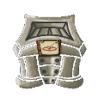
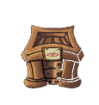
Ugrade Menu/ 6h 32 min 57 s

diff --git a/main.py b/main.py
@@ -13,21 +13,23 @@ import random
 pygame.font.init()
 
 lives_img = pygame.image.load(os.path.join("game_assets","heart.png"))
-star_imgs = pygame.image.load(os.path.join("game_assets","star.png"))
+coin_img = pygame.transform.scale(pygame.image.load(os.path.join("game_assets/Menu", "coin.png")),(40,40))
+UI_background = pygame.transform.scale(pygame.image.load(os.path.join("game_assets/Menu","menu.png")), (200,100))
+
 class Game:
     def __init__(self):
         self.width = 1200
         self.height = 700
         self.win = pygame.display.set_mode((self.width, self.height))
         self.enemys = []
-        self.attack_towers = [TrebuchetteTower(300, 150), ArcherTower(725, 400), WizardTower( 100,250)]
+        self.attack_towers = [TrebuchetteTower(300, 150), ArcherTower(725, 400), WizardTower( 100,250), ArcherTower(725, 50)]
         self.support_towers = [RangeTower(800, 400), DamageTower(800,500)]
         self.lives = 10
-        self.money = 100
+        self.money = 2000
         self.bg = pygame.image.load(os.path.join("game_assets", "bg2.0.png"))
         self.bg = pygame.transform.scale(self.bg, (self.width, self.height))
         self.timer =time.time()
-        self.life_font = pygame.font.SysFont("comicsans",50)
+        self.life_font = pygame.font.SysFont("comicsans",30)
         self.selected_tower = None
 
     def run(self):
@@ -48,18 +50,29 @@ class Game:
 
                 pos = pygame.mouse.get_pos()
                 if event.type == pygame.MOUSEBUTTONDOWN:
-                    for tw in self.attack_towers:
-                        if tw.click(pos[0], pos[1]):
-                            tw.selected = True
-                            self.selected_tower = tw
-                        else:
-                            tw.selected = False
-                    for tw in self.support_towers:
-                        if tw.click(pos[0], pos[1]):
-                            tw.selected = True
-                            self.selected_tower = tw
-                        else:
-                            tw.selected = False
+                    btn_clicked=None
+                    if self.selected_tower:
+                        btn_clicked = self.selected_tower.menu.get_clicked(pos[0], pos[1])
+                        if btn_clicked:
+                            if btn_clicked == "Upgrade":
+                                cost = self.selected_tower.get_upgrade_cost()
+                                if self.money >= cost:
+                                    self.money -= cost
+                                    self.selected_tower.upgrade()
+
+                    if not (btn_clicked):
+                        for tw in self.attack_towers:
+                            if tw.click(pos[0], pos[1]):
+                                tw.selected = True
+                                self.selected_tower = tw
+                            else:
+                                tw.selected = False
+                        for tw in self.support_towers:
+                            if tw.click(pos[0], pos[1]):
+                                tw.selected = True
+                                self.selected_tower = tw
+                            else:
+                                tw.selected = False
             to_del = []
             for en in self.enemys:
                 if en.pos[0] == 110 and en.pos[1] == 90:
@@ -68,7 +81,7 @@ class Game:
                 self.lives -= 1
                 self.enemys.remove(d)
             for tw in self.attack_towers:
-                tw.attack(self.enemys)
+                self.money += tw.attack(self.enemys)
 
             for tw in self.support_towers:
                 tw.support(self.attack_towers)
@@ -93,12 +106,22 @@ class Game:
         for tw in self.support_towers:
             tw.draw(self.win)
 
+        # draw UI background
+        UIbg = UI_background
+        self.win.blit(UIbg, (self.width - 200, 0))
 
         #draw lifes
         text = self.life_font.render(str(self.lives), 1, (255,255,255))
         life = lives_img
-        self.win.blit(text, (self.width-75, 0))
-        self.win.blit(life, (self.width-600, -385))
+        self.win.blit(text, (self.width-100, 10))
+        self.win.blit(life, (self.width-650, -395))
+
+        # draw money
+        text = self.life_font.render(str(self.money), 1, (255, 255, 255))
+        money = coin_img
+        self.win.blit(text, (self.width - 120, 48))
+        self.win.blit(money, (self.width - 175, 48))
+
 
 
         pygame.display.update()

diff --git a/Menu/menu.py b/Menu/menu.py
@@ -1,7 +1,7 @@
 import pygame
 import os
-
-
+pygame.font.init
+coin = pygame.transform.scale(pygame.image.load(os.path.join("game_assets/Menu", "coin.png")),(40,40))
 class Button:
     def __init__(self, x, y, img, name):
         self.name = name
@@ -27,15 +27,17 @@ class Menu:
     """
     menu para selecionar items
     """
-    def __init__(self, x, y, img):
+    def __init__(self, tower, x, y, img, item_cost):
         self.x = x
         self.y = y
         self.width = img.get_width()
         self.height = img.get_height()
-        self.item_name = []
+        self.item_cost = item_cost
         self.buttons = []
         self.items = 0
         self.bg = img
+        self.font = pygame.font.SysFont("comicsans",20)
+        self.tower = tower
 
     def add_btn(self, img, name):
         """
@@ -45,10 +47,19 @@ class Menu:
         :return: None
         """
         self.items += 1
-        inc_x = self.width/self.items
-        btn_x=self.items * inc_x - img.get_width()/2
-        btn_y= self.y + self.height/2 - img.get_height()/2
+        btn_x = self.x - self.bg.get_width() / 2 + 30
+        if self.y > 140:
+            btn_y= self.y - 130
+        else:
+            btn_y = self.y +25
         self.buttons.append(Button(btn_x,btn_y,img,name))
+
+    def get_item_cost(self):
+        """
+        gets cost of upgrade to next level
+        :return: int
+        """
+        return self.item_cost[self.tower.level-1]
 
     def draw(self, win):
         """
@@ -56,10 +67,15 @@ class Menu:
         :param win:surface
         :return: None
         """
-        win.blit(self.bg, (self.x, self.y))
+        if self.y > 140:
+            win.blit(self.bg, (self.x-self.bg.get_width()/2, self.y-150))
+        else:
+            win.blit(self.bg, (self.x - self.bg.get_width() / 2, self.y))
         for item in self.buttons:
             item.draw(win)
-
+            win.blit(coin, (item.x + item.width +25, item.y -10))
+            text = self.font.render(str(self.item_cost[self.tower.level-1]),1,(255,255,255))
+            win.blit(text, (item.x +item.width + 25, item.y + coin.get_height()-10))
     def get_clicked(self, X, Y):
         """
         devuelve el item clicado en el menu
@@ -70,3 +86,5 @@ class Menu:
         for btn in self.buttons:
             if btn.click(X,Y):
                 return btn.name
+
+        return None

diff --git a/Allies/TrebuchetteTower.py b/Allies/TrebuchetteTower.py
@@ -3,6 +3,10 @@ from .Tower import Tower
 import os
 import math
 import time
+from Menu.menu import Menu
+
+menu_bg= pygame.transform.scale(pygame.image.load(os.path.join("game_assets/Menu","menu.png")), (200,100))
+upgrade_btn = pygame.transform.scale(pygame.image.load(os.path.join("game_assets/Menu","upgrade.png")), (50,50))
 
 tower_imgs = []
 trebuchette_imgs = []
@@ -29,7 +33,11 @@ class TrebuchetteTower(Tower):
         self.original_damage = self.damage
         self.width=90
         self.height=100
+        self.menu = Menu(self, self.x, self.y, menu_bg, [5000, 10000, "MAX"])
+        self.menu.add_btn(upgrade_btn, "Upgrade")
 
+    def get_upgrade_cost(self):
+        return self.menu.get_item_cost()
 
     def draw(self, win):
         super().draw_radius(win)
@@ -55,6 +63,7 @@ class TrebuchetteTower(Tower):
         self.range = r
 
     def attack(self, enemies):
+        money = 0
         self.inRange = False
         enemy_closest = []
         for enemy in enemies:
@@ -72,6 +81,7 @@ class TrebuchetteTower(Tower):
             if self.trebuchette_count == 8:
 
                 if first_enemy.hit(self.damage) == True:
+                    money = first_enemy.money
                     enemies.remove(first_enemy)
 
             if first_enemy.pos[0] < self.x and not(self.left):
@@ -82,3 +92,4 @@ class TrebuchetteTower(Tower):
                 self.left = False
                 for x, img in enumerate(self.trebuchette_imgs):
                     self.trebuchette_imgs[x] = pygame.transform.flip(img, True, False)
+        return money

diff --git a/Allies/WizardTower.py b/Allies/WizardTower.py
@@ -3,6 +3,10 @@ from .Tower import Tower
 import os
 import math
 import time
+from Menu.menu import Menu
+
+menu_bg= pygame.transform.scale(pygame.image.load(os.path.join("game_assets/Menu","menu.png")), (200,100))
+upgrade_btn = pygame.transform.scale(pygame.image.load(os.path.join("game_assets/Menu","upgrade.png")), (50,50))
 
 tower_imgs = []
 wizard_imgs = []
@@ -29,7 +33,11 @@ class WizardTower(Tower):
         self.left= False
         self.damage = 15
         self.original_damage = self.damage
+        self.menu = Menu(self, self.x, self.y, menu_bg, [3500, 7000, "MAX"])
+        self.menu.add_btn(upgrade_btn, "Upgrade")
 
+    def get_upgrade_cost(self):
+        return self.menu.get_item_cost()
 
     def draw(self, win):
         super().draw_radius(win)
@@ -55,6 +63,7 @@ class WizardTower(Tower):
         self.range = r
 
     def attack(self, enemies):
+        money = 0
         self.inRange = False
         enemy_closest = []
         for enemy in enemies:
@@ -72,6 +81,7 @@ class WizardTower(Tower):
             if self.wizard_count == 9:
 
                 if first_enemy.hit(self.damage) == True:
+                    money = first_enemy.money
                     enemies.remove(first_enemy)
 
             if first_enemy.pos[0] < self.x and not(self.left):
@@ -82,3 +92,4 @@ class WizardTower(Tower):
                 self.left = False
                 for x, img in enumerate(self.wizard_imgs):
                     self.wizard_imgs[x] = pygame.transform.flip(img, True, False)
+        return money

diff --git a/Allies/ArcherTower.py b/Allies/ArcherTower.py
@@ -3,6 +3,10 @@ from .Tower import Tower
 import os
 import math
 import time
+from Menu.menu import Menu
+
+menu_bg= pygame.transform.scale(pygame.image.load(os.path.join("game_assets/Menu","menu.png")), (200,100))
+upgrade_btn = pygame.transform.scale(pygame.image.load(os.path.join("game_assets/Menu","upgrade.png")), (50,50))
 
 tower_imgs = []
 archer_imgs = []
@@ -28,6 +32,11 @@ class ArcherTower(Tower):
         self.damage = 10
         self.original_damage = self.damage
         self.width = self.height = 90
+        self.menu = Menu(self, self.x, self.y, menu_bg, [2000, 5000, "MAX"])
+        self.menu.add_btn(upgrade_btn, "Upgrade")
+
+    def get_upgrade_cost(self):
+        return self.menu.get_item_cost()
 
 
     def draw(self, win):
@@ -54,6 +63,7 @@ class ArcherTower(Tower):
         self.range = r
 
     def attack(self, enemies):
+        money = 0
         self.inRange = False
         enemy_closest = []
         for enemy in enemies:
@@ -70,6 +80,7 @@ class ArcherTower(Tower):
             first_enemy = enemy_closest[0]
             if self.archer_count == 9:
                 if first_enemy.hit(self.damage) == True:
+                    money = first_enemy.money
                     enemies.remove(first_enemy)
 
 
@@ -81,5 +92,7 @@ class ArcherTower(Tower):
                 self.left = False
                 for x, img in enumerate(self.archer_imgs):
                     self.archer_imgs[x] = pygame.transform.flip(img, True, False)
+
+        return money
 
 

diff --git a/Allies/Tower.py b/Allies/Tower.py
@@ -2,7 +2,8 @@ import pygame
 from Menu.menu import Menu
 import os
 
-menu_bg= pygame.image.load(os.path.join("game_assets/Menu","menu.png"))
+menu_bg= pygame.transform.scale(pygame.image.load(os.path.join("game_assets/Menu","menu.png")), (200,100))
+upgrade_btn = pygame.transform.scale(pygame.image.load(os.path.join("game_assets/Menu","upgrade.png")), (50,50))
 class Tower:
     def __init__(self, x, y):
         self.x = x
@@ -13,13 +14,20 @@ class Tower:
         self.price = [0, 0, 0]
         self.level = 1
         self.selected = False
-        self.menu = Menu(self.x, self.y, menu_bg)
+        #define menu and buttons
+        self.menu = Menu(self, self.x, self.y, menu_bg, [2000, "MAX"])
+        self.menu.add_btn(upgrade_btn,"Upgrade")
+
         self.tower_imgs = []
         self.damage = 1
 
     def draw(self, win):
-        img = self.tower_imgs[self.level]
+        img = self.tower_imgs[self.level-1]
         win.blit(img, (self.x - img.get_width() // 2, self.y - img.get_height() // 2))
+
+        #Draw menu
+        if self.selected:
+            self.menu.draw(win)
 
     def draw_radius(self, win):
         if self.selected:
@@ -50,8 +58,9 @@ class Tower:
         return self.sell_price[self.level - 1]
 
     def upgrade(self):
-        self.level += 1
-        self.damage += 1
+        if self.level < len(self.tower_imgs):
+            self.level += 1
+            self.damage += 1
 
 
     def get_ugrade_cost(self):

diff --git a/Enemies/Troll.py b/Enemies/Troll.py
@@ -9,6 +9,8 @@ for x in range(10):
 class Troll(Unit):
     def __init__(self):
         super() .__init__()
+        self.name = "troll"
+        self.money = 100
         self.max_health = 200
         self.health = self.max_health
         self.imgs = imgs[:]

diff --git a/Enemies/Ent.py b/Enemies/Ent.py
@@ -12,6 +12,8 @@ for x in range(20):
 class Ent(Unit):
     def __init__(self):
         super() .__init__()
+        self.name = "ent"
+        self.money = 50
         self.max_health = 50
         self.health = self.max_health
         self.imgs = imgs[:]

diff --git a/Enemies/orc.py b/Enemies/orc.py
@@ -10,6 +10,8 @@ for x in range(7):
 class Orc(Unit):
     def __init__(self):
         super() .__init__()
+        self.name = "orc"
+        self.money = 20
         self.max_health = 50
         self.health = self.max_health
         self.imgs = imgs[:]
